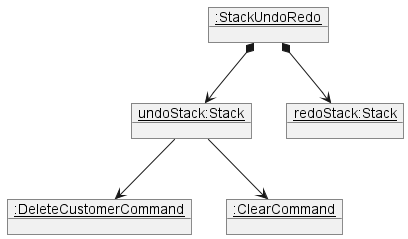
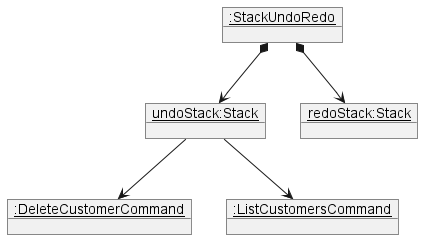
change clear to list

diff --git a/docs/DeveloperGuide.md b/docs/DeveloperGuide.md
@@ -208,11 +208,11 @@ The following sequence diagram shows how the undo operation works:
 
 > <b>Note:</b> The redo command will call `popRedo()` method in `StackUndoRedo`and `redo()` method in `RedoableCommand` .
 
-Step 5. The user executes clear. Due to not being an `UndoCommand` or `RedoCommand`, it causes the `redoStack` to be cleared.
+Step 5. The user executes listcustomers. Due to not being an `UndoCommand` or `RedoCommand`, it causes the `redoStack` 
+to be cleared.  Commands that are not undoable are not added into the `undoStack`.
 
 ![UndoRedo0](images/UndoRedo7.png)
 
-Step 6. User executes listcustomers command. Commands that are not undoable are not added into the `undoStack`.
 
 
 #### Design considerations:
